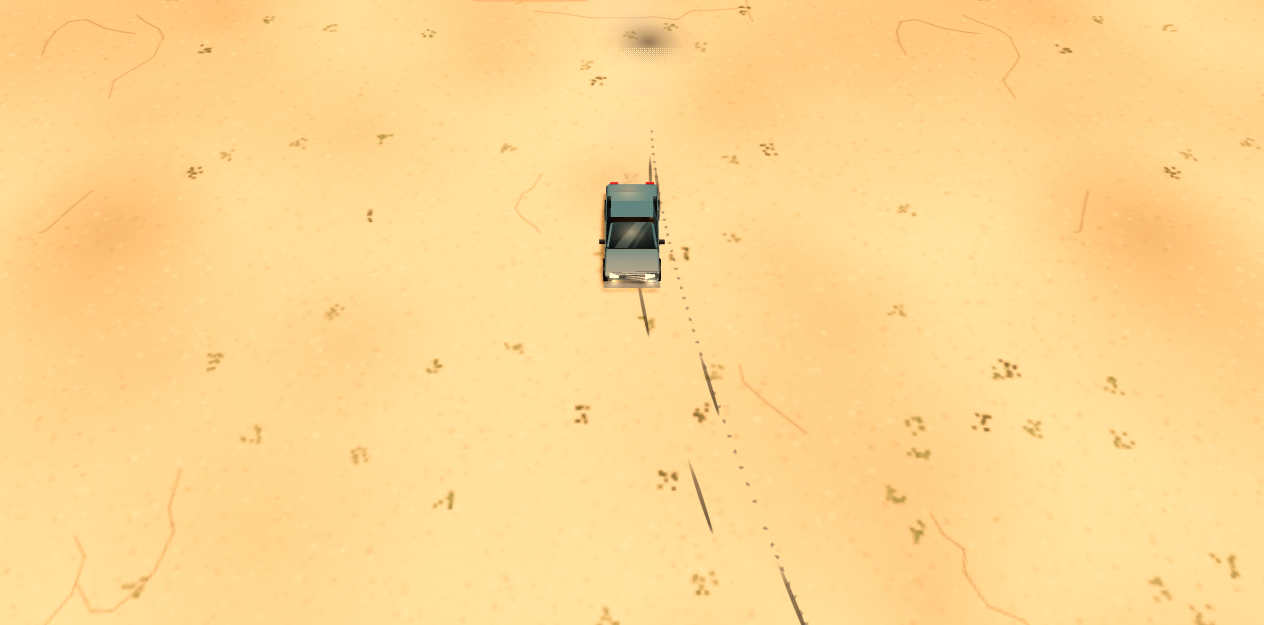
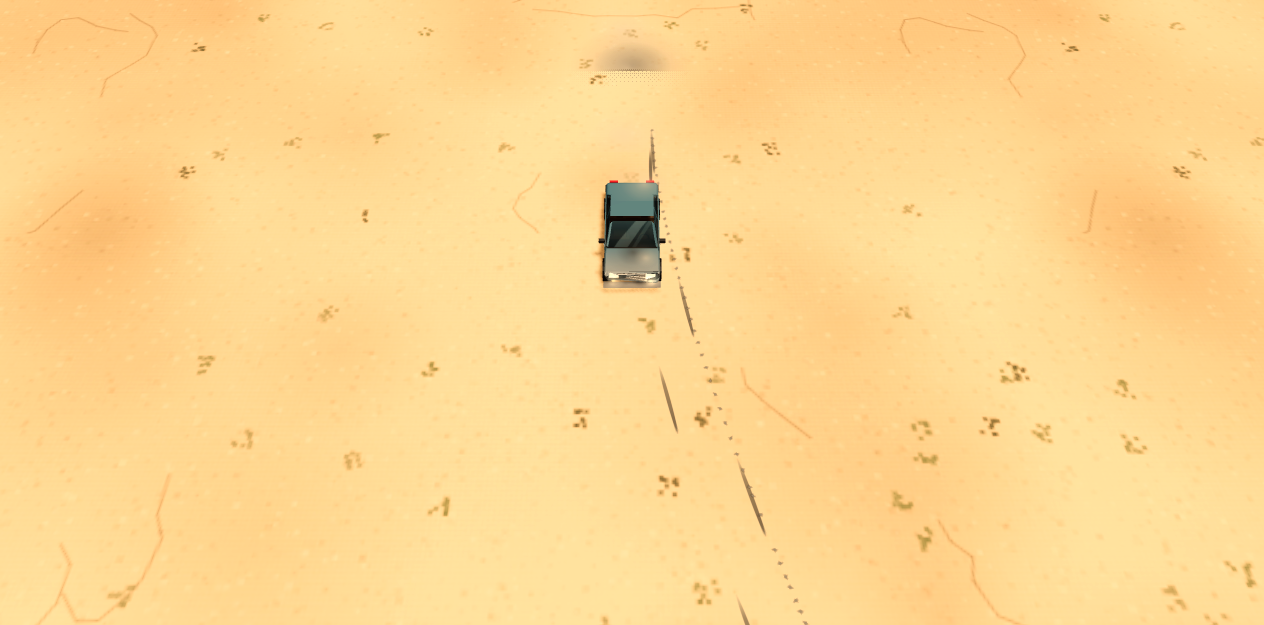
fix(web-veh-damage-feel): critic pass - upkeep multiplies the brakes (beaten brakes felt in the full game), the fix takes only E (F/C/G open the car beside a flat), the damage record rides the save, workshop tyres/body reset rims/front/brakes, one blowout bang, a friend's car shows its driver's stat

diff --git a/web/src/systems/damagefeel.js b/web/src/systems/damagefeel.js
@@ -23,6 +23,8 @@ for (const [k, F] of Object.entries(FIXES)) ACTIONS[`car_${k}`] ??= { label: F.l
 const TYRES = ['FL', 'FR', 'RL', 'RR'], BIKE_TYRES = ['FL', 'RL'];
 const LOOPS = ['flap', 'scrape', 'drag', 'steam'], LOOP_KIND = { flap: 'tyre.flap', scrape: 'rim.scrape', drag: 'bumper.drag', steam: 'steam.hiss' };
 const ENDS = [['F', 'front', 'bumperF', 0.5], ['R', 'rear', 'bumperR', -0.5]], WORK_ENDS = [['front', 'front', 'bumperF'], ['rear', 'rear', 'bumperR']];
+const NEED = {}; for (const id of ['spare_tyre', 'car_jack', 'tyre_plug', 'brake_pads', 'wrench']) NEED[id] = `no ${(ITEMS[id] ?? FEEL_ITEMS[id])?.name.toLowerCase() ?? id}`; // the missing-part words, made once
+const SPOT = { x: 0, z: 0 }; // spot()'s scratch (jobAt reads it before the next call)
 const VERB = { tyre: 'Change the tyre', plug: 'Plug the tyre', align: 'Straighten the front', bumper: 'Pull the hanging bumper', brakes: 'Fit the brake pads' };
 const clamp = (x, a, b) => (x < a ? a : x > b ? b : x);
 const r2 = (x) => Math.round(x * 100) / 100;
@@ -39,7 +41,7 @@ export class DamageFeel {
   // Which vehicles have air in their tyres to lose.
   tyred(v) { return !v.boat && !v.tracked && !v.trailer; }
   // The extra damage state, on the car's own dmg record.
-  ensure(d) { d.rim ??= { FL: 1, FR: 1, RL: 1, RR: 1 }; d.align ??= 0; d.brakes ??= 1; d.drag ??= { F: 0, R: 0 }; d.phase ??= 0; return d; }
+  ensure(d) { d.rim ??= { FL: 1, FR: 1, RL: 1, RR: 1 }; d.align ??= 0; d.brakes ??= 1; d.drag ??= { F: 0, R: 0 }; d.phase ??= 0; d.trail ??= { FL: 0, FR: 0, RL: 0, RR: 0 }; d.netDrag ??= { F: false, R: false }; return d; }
 
   // ---- a hit (vehicledamage.hit): what a crash bends beyond the dent ------------------------------------------------
   onHit(v, zone, k, kind, lx) {
@@ -51,13 +53,13 @@ export class DamageFeel {
     }
   }
   // A tyre gone (vehicledamage.popTyre): the bang you hear.
-  onBlowout(v) { this.counts.blowouts++; if (this.near(v)) this.g.audio?.sample?.('vehdmg', 'tyre.blowout', { x: v.x, z: v.z, range: 60 }); }
+  onBlowout(v) { this.counts.blowouts++; return this.near(v) && !!this.g.audio?.sample?.('vehdmg', 'tyre.blowout', { x: v.x, z: v.z, range: 60 }); } // true: the recorded bang played (no synth one on top)
   onMisfire(v) { this.counts.misfires++; return !!this.g.audio?.sample?.('vehdmg', 'engine.misfire', { x: v.x, z: v.z, range: 45 }); }
   near(v) { const p = this.g.player; return Math.hypot(v.x - p.x, v.z - p.z) < 80; }
 
   // ---- every frame (vehicledamage.effects): the feel ------------------------------------------------------------------
   apply(v, dt, fx) {
-    const g = this.g, d = this.ensure(v.dmg);
+    const g = this.g, d = this.ensure(v.dmg), ghost = !!v.netGhost; // a friend's car: its state is their page's (decode); here it is only shown
     // Its speed from its own motion (a friend's car on this page is moved, not driven: the same answer for both).
     const mv = Math.hypot(v.x - (v.fpx ?? v.x), v.z - (v.fpz ?? v.z)) / Math.max(dt, 1e-3); v.fpx = v.x; v.fpz = v.z;
     const sp = v.fsp = (v.fsp ?? 0) * 0.8 + Math.min(mv, 60) * 0.2, spK = clamp(sp / 12, 0, 1.5);
@@ -78,13 +80,13 @@ export class DamageFeel {
         else yaw += Math.sin(d.phase * 0.9 + 1.7) * F.tail * k * spK * (v.bike ? 1.6 : 1);                              // the tail walks
         roll += (v.bike ? 0 : side * FLAT.sag) + Math.sin(d.phase + (front ? 0 : 1.3)) * FLAT.shudder * spK;            // sags onto it, shudders with it
         // Driven on, the rim wears (faster on the throttle); with nothing left the wheel is gone.
-        if (sp > 0.5 && R > 0) {
+        if (sp > 0.5 && R > 0 && !ghost) {
           d.rim[t] = Math.max(0, R - sp * dt / RIM.life * (1 + Math.max(0, v.throttle ?? 0) * 0.6) * k);
           if (d.rim[t] <= 0) { this.counts.rimsGone++; d.dirty = true; g.emit?.('rimGone', { vehicle: v.id, tyre: t }); }
         }
         if (sp > 1 && Math.random() < dt * (gone ? RIM.sparks[1] : RIM.sparks[0] * spK)) this.spark(v, front ? 0.42 : -0.42, side);
         // What it leaves on the road: torn rubber smeared behind a flat, a scored groove behind a bare rim.
-        if (sp > 1.5) { const k2 = `trail${t}`; d[k2] = (d[k2] ?? 0) - sp * dt; if (d[k2] <= 0) { d[k2] = gone ? 0.35 : 0.6; this.mark(v, front ? 0.32 : -0.32, side, gone); } }
+        if (sp > 1.5) { d.trail[t] -= sp * dt; if (d.trail[t] <= 0) { d.trail[t] = gone ? 0.35 : 0.6; this.mark(v, front ? 0.32 : -0.32, side, gone); } }
         if (gone || R < RIM.scrapeAt || sp > FLAT.flapBelow) scrape = true; else flap = true;
       }
       if (nFlat >= 4) fx.top = Math.min(fx.top, FLAT.allFour);
@@ -98,26 +100,34 @@ export class DamageFeel {
     if (b <= BRAKES.fadeAt && b > BRAKES.failAt) { d.fadeT = (d.fadeT ?? 0) - dt; if (d.fadeT <= 0) { d.fadeT = 0.6 + Math.random() * 0.8; d.fadeK = BRAKES.fade[0] + Math.random() * (BRAKES.fade[1] - BRAKES.fade[0]); } bm = d.fadeK ?? BRAKES.fade[0]; }
     fx.brake = (fx.brake ?? 1) * bm;
     const braking = (v.throttle ?? 0) < 0 && sp > 2;
+    v.feelBrake = bm; // what the pedal gives this frame (the checks read the fade)
     if (braking && b < BRAKES.grindBelow && this.inside(v)) { d.grindT = (d.grindT ?? 0) - dt; if (d.grindT <= 0) { d.grindT = 1.1; this.counts.grinds++; g.audio?.sample?.('vehdmg', 'brake.grind', { dist: 1.5, vol: 0.8 }); } }
     // Heat: past the seize point the engine locks up and gives nothing until it has cooled right down.
-    if (!v.noEngine) {
+    if (!v.noEngine && !ghost) {
       if (!d.seized && d.temp > HEAT.seize) { d.seized = true; this.counts.seized++; g.emit?.('engineSeized', { vehicle: v.id }); }
       if (d.seized) { fx.power = 0; d.temp = Math.max(0, d.temp - (HEAT.cool + (v.throttle > 0 ? 0.02 + (1 - d.radiator) * 0.09 : 0)) * dt); /* locked up: no heat made, throttle or not */ if (d.temp < HEAT.restart) { d.seized = false; g.emit?.('engineFreed', { vehicle: v.id }); } }
       // A wrecked engine smokes all the time, black near the end.
       if (d.engine < SMOKE.below && d.engine > 0) { d.smokeT = (d.smokeT ?? 0) - dt; if (d.smokeT <= 0) { d.smokeT = SMOKE.every; g.fx?.smoke?.(v.x + Math.sin(v.h) * v.len * 0.38, 1.3, v.z + Math.cos(v.h) * v.len * 0.38, d.engine < 0.15); } }
     }
+    if (ghost && d.engine < SMOKE.below) { d.smokeT = (d.smokeT ?? 0) - dt; if (d.smokeT <= 0) { d.smokeT = SMOKE.every; g.fx?.smoke?.(v.x + Math.sin(v.h) * v.len * 0.38, 1.3, v.z + Math.cos(v.h) * v.len * 0.38, d.engine < 0.15); } }
     // Boiling or seized: a white plume off the hood you can read from anywhere (vehicledamage adds its own wisps).
     if (!v.noEngine && (d.temp > 1 || d.seized)) { d.steamT = (d.steamT ?? 0) - dt; if (d.steamT <= 0) { d.steamT = 0.1; g.fx?.spawn?.(2, v.x + Math.sin(v.h) * v.len * 0.4, 1.5, v.z + Math.cos(v.h) * v.len * 0.4, (Math.random() - 0.5) * 1.2, 1.3, (Math.random() - 0.5) * 1.2, 2.4, 1.7, '#8c9498', -0.5); } }
     // A caved-in end with its bumper still on: it hangs and drags until it tears off.
     let dragging = false;
-    for (const [end, zone, part, lz] of ENDS) {
-      const hang = !v.boat && d.zones[zone] >= DRAG.from && !d.off[part];
+    for (let i = 0; i < ENDS.length; i++) {
+      const E = ENDS[i], end = E[0], zone = E[1], part = E[2], lz = E[3];
+      const hang = !v.boat && (ghost ? d.netDrag[end] : d.zones[zone] >= DRAG.from && !d.off[part]);
       if (!hang) { d.drag[end] = 0; continue; }
       d.drag[end] += sp * dt; fx.top *= DRAG.top; dragging = dragging || sp > 1.5;
       if (sp > 1.5 && Math.random() < dt * DRAG.sparks) this.spark(v, lz, 0);
-      if (d.drag[end] > DRAG.tearAfter) { g.vehDamage.detach(v, part, zone, 4); this.counts.bumpersTorn++; d.drag[end] = 0; }
+      if (!ghost && d.drag[end] > DRAG.tearAfter) { g.vehDamage.detach(v, part, zone, 4); this.counts.bumpersTorn++; d.drag[end] = 0; }
     }
     fx.yaw = yaw; v.dmgRoll = roll;
+    // Someone else's car going by hurt: you hear it too (a take now and then, from where it is).
+    if (!this.inside(v) && sp > 2 && (nFlat || dragging)) {
+      d.outT = (d.outT ?? 0) - dt;
+      if (d.outT <= 0) { d.outT = 1.7; const p = g.player; if (Math.hypot(v.x - p.x, v.z - p.z) < 40) g.audio?.sample?.('vehdmg', dragging ? 'bumper.drag' : scrape ? 'rim.scrape' : 'tyre.flap', { x: v.x, z: v.z, range: 40, vol: 0.6 }); }
+    }
     // The car you are in: its loops.
     if (this.inside(v)) {
       const L = this.loops;
@@ -162,10 +172,10 @@ export class DamageFeel {
 
   // ---- the fixes, on foot at the car -----------------------------------------------------------------------------------
   // The spot to kneel at for each job: a wheel (by tyre), the front, an end with a hanging bumper.
-  spot(v, at, t = null) {
+  spot(v, at, t = null, out = SPOT) {
     const c = Math.cos(v.h), s = Math.sin(v.h);
     const lx = at === 'wheel' ? (t[1] === 'L' ? 1 : -1) * (v.wid / 2 + 0.3) : 0, lz = at === 'wheel' ? (t[0] === 'F' ? 1 : -1) * v.len * 0.32 : (at === 'rear' ? -1 : 1) * (v.len / 2 + 0.5);
-    return { x: v.x + lx * c + lz * s, z: v.z - lx * s + lz * c };
+    out.x = v.x + lx * c + lz * s; out.z = v.z - lx * s + lz * c; return out;
   }
   // A part on you or in that car's trunk (a spare lives in the trunk: it does not fit a pocket).
   has(id, v = null) { const I = this.g.inventory; if (!id) return true; return (I?.carried?.count(id) ?? 0) > 0 || (id === 'wrench' && !!I?.hasTag?.('wrench')) || (!!v && (I?.trunk?.(v)?.count(id) ?? 0) > 0); }
@@ -182,31 +192,41 @@ export class DamageFeel {
     return Object.assign(J, o);
   }
   jobAt(v, p) {
-    const d = v.dmg; if (!d || v.dead) return null;
+    const d = v.dmg; if (!d || v.dead || v.netGhost) return null; // a friend's car is theirs to fix
     this.ensure(d);
+    const g = this.g;
+    if (this.jobV === v && g.time - (this.jobT ?? -9) < 0.2 && Math.abs(p.x - this.jobX) + Math.abs(p.z - this.jobZ) < 0.25) return this.jobLast; // asked a few times a second while you stand still
+    this.jobV = v; this.jobT = g.time; this.jobX = p.x; this.jobZ = p.z; this.jobLast = this.findJob(v, p, d);
+    return this.jobLast;
+  }
+  findJob(v, p, d) {
     const near = (q) => Math.hypot(q.x - p.x, q.z - p.z) < 1.7;
     if (this.tyred(v)) for (const t of this.tyresOf(v)) {
       if (d.tyres[t] > 0) continue;
       const q = this.spot(v, 'wheel', t); if (!near(q)) continue;
       const plug = d.rim[t] >= FIXES.plug.rimMin && this.has('tyre_plug', v) && !(this.has('spare_tyre', v) && this.has('car_jack', v));
       const job = plug ? 'plug' : 'tyre', F = FIXES[job];
-      const why = !this.has(F.item, v) ? `no ${ITEMS[F.item].name.toLowerCase()}` : !this.has(F.tool, v) ? `no ${ITEMS[F.tool].name.toLowerCase()}` : null;
+      const why = !this.has(F.item, v) ? NEED[F.item] : !this.has(F.tool, v) ? NEED[F.tool] : null;
       return this.job(v, { job, t, x: q.x, z: q.z, why });
     }
     for (const [end, zone, part] of WORK_ENDS) {
       const q = this.spot(v, end); if (!near(q)) continue;
-      if (d.zones[zone] >= DRAG.from && !d.off[part]) return this.job(v, { job: 'bumper', end, part, zone, x: q.x, z: q.z, why: !this.has('wrench') ? 'no wrench' : null });
-      if (end === 'front' && Math.abs(d.align) > ALIGN.min) return this.job(v, { job: 'align', x: q.x, z: q.z, why: !this.has('wrench') ? 'no wrench' : null });
-      if (end === 'front' && d.brakes < 0.7) return this.job(v, { job: 'brakes', x: q.x, z: q.z, why: !this.has('brake_pads', v) ? 'no brake pads' : !this.has('wrench') ? 'no wrench' : null });
+      if (d.zones[zone] >= DRAG.from && !d.off[part]) return this.job(v, { job: 'bumper', end, part, zone, x: q.x, z: q.z, why: !this.has('wrench') ? NEED.wrench : null });
+      if (end === 'front' && Math.abs(d.align) > ALIGN.min) return this.job(v, { job: 'align', x: q.x, z: q.z, why: !this.has('wrench') ? NEED.wrench : null });
+      if (end === 'front' && d.brakes < 0.7) return this.job(v, { job: 'brakes', x: q.x, z: q.z, why: !this.has('brake_pads', v) ? NEED.brake_pads : !this.has('wrench') ? NEED.wrench : null });
     }
     return null;
   }
   // main.js E chain, on foot beside a car: true when it took the key (a job here).
+  // Only E is the job's: without it held (or the job running) it only leaves a hint for the car's own prompt (main.js
+  // shows F / C / G with it), so the driver's door still opens beside a flat front wheel.
   fixKey(p, v, I, dt) {
-    const g = this.g, A = g.actions; if (!A || p.inVehicle) return false;
+    const g = this.g, A = g.actions; this.hint = '';
+    if (!A || p.inVehicle) return false;
     const J = this.jobAt(v, p); if (!J) return false;
-    const F = FIXES[J.job], key = `fix:${J.key}`;
-    if (J.why) { g.hud.prompt(`${VERB[J.job]} · <b class="warn">${J.why}</b>`); return true; }
+    const F = FIXES[J.job], key = `fix:${J.key}`, busy = A.cur?.target === J;
+    this.hint = J.why ? ` · ${VERB[J.job]}: <b class="warn">${J.why}</b>` : ` · hold <kbd>E</kbd> ${VERB[J.job]}`;
+    if (J.why || (!I.key('KeyE') && !busy)) return false;
     A.touch?.();
     const k = A.press(J, I, dt);
     if (k === 'hold') {
@@ -224,6 +244,7 @@ export class DamageFeel {
     const g = this.g, d = this.ensure(v.dmg), F = FIXES[J.job], inv = g.inventory;
     if ((F.item && !this.has(F.item, v)) || (F.tool && !this.has(F.tool, v))) { g.hud.toast(`${F.label.toUpperCase()} · THE PARTS ARE GONE`, 'warn'); return; }
     if (F.item) this.spend(F.item, v);
+    if (F.tool) g.actions?.wear?.(F.tool, 0.05); // the jack, the wrench: they wear with use
     if (J.job === 'tyre') { d.tyres[J.t] = 1; d.rim[J.t] = 1; }        // a spare on its own rim
     else if (J.job === 'plug') d.tyres[J.t] = FIXES.plug.gives;
     else if (J.job === 'align') d.align = 0;
@@ -237,7 +258,7 @@ export class DamageFeel {
   coolant(v) {
     const d = v?.dmg; if (!d || v.noEngine) return { ok: false, why: v ? 'it has no engine to cool' : 'no vehicle close enough' };
     if (d.temp < 0.3 && d.radiator > 0.95) return { ok: false, why: 'it is running cool already' };
-    d.temp = Math.max(0, Math.min(d.temp - COOLANT.drop, HEAT.restart - 0.05)); d.radiator = Math.min(1, d.radiator + COOLANT.radiator); // cooled under the restart line
+    d.temp = Math.max(0, Math.min(d.temp - COOLANT.drop, HEAT.restart - 0.05)); d.radiator = Math.max(d.radiator, Math.min(COOLANT.leakCap, d.radiator + COOLANT.radiator)); // cooled under the restart line; the stop-leak slows a hole, it does not mend it
     if (d.seized) { d.seized = false; this.g.emit('engineFreed', { vehicle: v.id }); }
     return { ok: true, text: 'COOLANT IN' };
   }
@@ -248,7 +269,7 @@ export class DamageFeel {
     this.ensure(d); const s = this.st;
     for (const t of TYRES) { s.flat[t] = d.tyres[t] <= 0; s.rimGone[t] = d.tyres[t] <= 0 && d.rim[t] <= 0; }
     s.smoke = !v.noEngine && d.engine < SMOKE.below; s.steam = d.temp > 1 || !!d.seized; s.leak = d.tank < 0.65;
-    s.dragF = d.zones.front >= DRAG.from && !d.off.bumperF; s.dragR = d.zones.rear >= DRAG.from && !d.off.bumperR;
+    s.dragF = v.netGhost ? d.netDrag.F : d.zones.front >= DRAG.from && !d.off.bumperF; s.dragR = v.netGhost ? d.netDrag.R : d.zones.rear >= DRAG.from && !d.off.bumperR;
     s.seized = !!d.seized; s.pullL = d.align > ALIGN.min; s.pullR = d.align < -ALIGN.min; s.brakes = d.brakes < BRAKES.fadeAt;
     return encodeDm(s);
   }
@@ -260,7 +281,7 @@ export class DamageFeel {
     d.engine = s.smoke ? Math.min(d.engine, 0.25) : Math.max(d.engine, 0.5);
     d.temp = s.steam ? Math.max(d.temp, 1.05) : Math.min(d.temp, 0.6); d.seized = s.seized;
     d.tank = s.leak ? Math.min(d.tank, 0.5) : Math.max(d.tank, 0.7);
-    d.zones.front = s.dragF ? Math.max(d.zones.front, DRAG.from) : d.zones.front; d.zones.rear = s.dragR ? Math.max(d.zones.rear, DRAG.from) : d.zones.rear;
+    d.netDrag.F = s.dragF; d.netDrag.R = s.dragR; // a hanging bumper as their page has it (the dents stay what this page saw)
     d.align = s.pullL ? 0.4 : s.pullR ? -0.4 : 0; d.brakes = s.brakes ? 0.3 : 1;
     d.dirty = true;
   }

diff --git a/web/src/agent/veh-dmgfeel-api.js b/web/src/agent/veh-dmgfeel-api.js
@@ -18,8 +18,8 @@ export async function vehDmgFeelChecks(api, check, C) {
   const g = api.g, I = g.input, F = () => g.dmgFeel, made = [];
   const yard = { x: 250, z: 400 }, LOT = { x: 120, z: -20 }; // the yard: open ground to drive; the lot by Rust Haven: quiet, to kneel and work
   let quiet = null; // the world held still while you kneel (no new raiders or infected; the ones near are put away)
-  const hush = () => { if (quiet) return; quiet = { z: g.zombies.enabled, rt: g.raiderTimer, w: g.wilds.enabled }; g.zombies.enabled = false; g.raiderTimer = 1e9; g.wilds.enabled = false; for (const c of g.chars) if (c.alive && c !== g.player && (c.faction === 'raider' || c.faction === 'zombie' || c.target === g.player) && Math.hypot(c.x - LOT.x, c.z - LOT.z) < 160) { if (c.faction === 'raider' || c.faction === 'zombie') { c.alive = false; c.hp = 0; } else { c.target = null; c.state = 'idle'; c.grudge = null; } } };
-  const unhush = () => { if (!quiet) return; g.zombies.enabled = quiet.z; g.raiderTimer = quiet.rt; g.wilds.enabled = quiet.w; quiet = null; };
+  const hush = () => { if (quiet) return; quiet = { z: g.zombies.enabled, rt: g.raiderTimer, w: g.wilds.enabled, th: g.actions.threatInSight }; g.actions.threatInSight = () => false; /* staged: no hostile walks in and cancels the job (not what these checks test) */ g.zombies.enabled = false; g.raiderTimer = 1e9; g.wilds.enabled = false; for (const c of g.chars) if (c.alive && c !== g.player && (c.faction === 'raider' || c.faction === 'zombie' || c.target === g.player) && Math.hypot(c.x - LOT.x, c.z - LOT.z) < 160) { if (c.faction === 'raider' || c.faction === 'zombie') { c.alive = false; c.hp = 0; } else { c.target = null; c.state = 'idle'; c.grudge = null; } } };
+  const unhush = () => { if (!quiet) return; delete g.actions.threatInSight; g.zombies.enabled = quiet.z; g.raiderTimer = quiet.rt; g.wilds.enabled = quiet.w; quiet = null; };
   const toLot = async (v) => { hush(); if (g.player.inVehicle) g.exitVehicle(true); Object.assign(v, { x: LOT.x, z: LOT.z, h: 0, vx: 0, vz: 0, av: 0 }); await C('teleport', { x: LOT.x - 4, z: LOT.z }); await api._step(4); }; // staged: towed to the lot
   const keys = ['KeyW', 'KeyS', 'KeyA', 'KeyD', 'KeyE', 'Space'];
   const off = () => { unhush(); for (const k of keys) I.down.delete(k); if (g.player.inVehicle) g.exitVehicle(true); for (const v of made.splice(0)) if (g.vehicles.includes(v)) g.vehiclesSys.remove(v); };
@@ -62,7 +62,6 @@ export async function vehDmgFeelChecks(api, check, C) {
       const flatRun = { side: v.x - (yard.x), top: ftop };
       const pos = g.vehiclesSys.speed(v);
       if (g.hud?.root) g.hud.root.style.display = hud0 ?? '';
-      const squat = (() => { const pa = v.mesh.geometry.attributes.part, P = v.mesh.geometry.attributes.position; let lo = 9, base = 9; for (let i = 0; i < pa.count; i++) if (pa.array[i] === 10) { lo = Math.min(lo, P.array[i * 3 + 1] + 0); base = Math.min(base, v.basePos[i * 3 + 1]); } return { lo, base }; })();
       const out = { good: { side: r1(good.side), top: r1(good.top) }, flat: { side: r1(flatRun.side), speed: r1(pos) }, roll: r2(v.dmgRoll ?? 0), flap, scrape };
       // re-drive the flat car for the numbers (top, roll, shudder) on the same keys
       const fr = await drive(v, 200); out.flat.top = r1(fr.top); out.flat.roll = r2(fr.roll); out.flat.shudder = r2(fr.shudder * 1000) / 1000;
@@ -118,13 +117,15 @@ export async function vehDmgFeelChecks(api, check, C) {
       const fixed = Math.abs(v.dmg.align) <= 0.01;
       if (!had) g.inventory.spend('wrench', 1);
       const out = { align: r2(align), brakes: r2(brakes), glass, side: r1(bent.side), fixed, log: g.actions.log.slice(-3), prompt: g.hud?.lastPrompt ?? null };
-      return Math.abs(align) > 0.12 && Math.sign(bent.side) === Math.sign(align) && Math.abs(bent.side) > 1 && brakes < 1 && (!glass0 || (glass !== null && glass < (v.windows?.front?.max ?? 999))) && fixed ? true : JSON.stringify(out);
+      return Math.abs(align) > 0.12 && Math.sign(bent.side) === Math.sign(align) && Math.abs(bent.side) > 1 && brakes < 1 && glass0 && glass !== null && glass < (v.windows?.front?.max ?? 0) && fixed ? true : JSON.stringify(out);
     } finally { off(); }
   });
 
+  let prof = null, up0;
   await check('car feel: beaten brakes stop long, then fade, and grind when they bite; hold E at the front with pads and a wrench and the pedal bites again', async () => {
     try {
-      const stop = async (stage) => { const v = await car(stage); await drive(v, 150); const z0 = v.z; I.down.add('KeyS'); let f = 0; for (; f < 600 && g.vehiclesSys.speed(v) > 0.6; f++) await api._step(1); I.down.delete('KeyS'); return { v, d: v.z - z0, f }; };
+      prof = g.survival?.prof; up0 = prof?.upkeep; if (prof) prof.upkeep = true; // the full game's upkeep on (it used to overwrite the brakes)
+      const stop = async (stage) => { const v = await car(stage); await drive(v, 150); const z0 = v.z; let lo = 9, hi = 0; I.down.add('KeyS'); let f = 0; for (; f < 600 && g.vehiclesSys.speed(v) > 0.6; f++) { await api._step(1); lo = Math.min(lo, v.feelBrake ?? 1); hi = Math.max(hi, v.feelBrake ?? 1); } I.down.delete('KeyS'); return { v, d: v.z - z0, f, fade: hi - lo }; };
       const good = await stop(); off();
       const g0 = F().counts.grinds;
       const bad = await stop((d) => { d.brakes = 0.25; });
@@ -136,9 +137,9 @@ export async function vehDmgFeelChecks(api, check, C) {
       I.down.add('KeyE'); for (let f = 0; f < 60 * (FIXES.brakes.secs + 2) && bad.v.dmg.brakes < 1; f++) await api._step(1); I.down.delete('KeyE');
       const fixed = bad.v.dmg.brakes === 1, spent = g.inventory.carried.count('brake_pads') === p0;
       if (!w0) g.inventory.spend('wrench', 1);
-      const out = { good: r1(good.d), bad: r1(bad.d), grinds, fixed, spent, log: g.actions.log.slice(-3) };
-      return bad.d > good.d * 1.6 && grinds > 0 && fixed && spent ? true : JSON.stringify(out);
-    } finally { off(); }
+      const out = { good: r1(good.d), bad: r1(bad.d), fade: r2(bad.fade), grinds, fixed, spent, log: g.actions.log.slice(-3) };
+      return bad.d > good.d * 1.6 && bad.fade > 0.02 && grinds > 0 && fixed && spent ? true : JSON.stringify(out);
+    } finally { if (prof) prof.upkeep = up0; off(); }
   });
 
   await check('car feel: a holed radiator boils (steam), then the engine seizes and the car rolls to a stop with W held; it frees once cool, and coolant brings it back at once', async () => {
@@ -198,12 +199,12 @@ export async function vehDmgFeelChecks(api, check, C) {
     } finally { off(); }
   });
 
-  await check('car feel: the damage rides the presence sample - a friend\'s car on this page shows the same flats, rim, smoke, steam and hanging bumper; boats have no tyres to lose, a bike only two', async () => {
+  await check('car feel: the damage word survives the shard\'s own cleaner and puts the same flats, rim, smoke, steam and hanging bumper on the other car; boats have no tyres to lose, a bike only two', async () => {
     try {
       const a = g.vehiclesSys.spawn('sedan', yard.x, yard.z, 0, '#777'), b = g.vehiclesSys.spawn('sedan', yard.x + 8, yard.z, 0, '#777'); made.push(a, b);
       Object.assign(a.dmg.tyres, { FL: 0, RR: 0 }); F().ensure(a.dmg); a.dmg.rim.RR = 0; a.dmg.engine = 0.2; a.dmg.temp = 1.1; a.dmg.zones.rear = 0.5; a.dmg.align = 0.4;
       const msg = cleanPresence({ x: a.x, z: a.z, v: { t: a.type, x: a.x, z: a.z, h: a.h, c: '#777777', seat: 0, dm: F().encode(a) } }); // through the shard's own cleaner
-      F().decode(b, msg.v.dm);
+      b.netGhost = { char: 'a friend' }; F().decode(b, msg.v.dm); // b stands in for their car on this page
       const s = decodeDm(msg.v.dm), same = F().encode(b) === F().encode(a);
       const boat = g.vehiclesSys.spawn('gunboat', yard.x + 30, yard.z + 30, 0, '#777'); made.push(boat);
       g.vehDamage.popTyre(boat, 'FL'); const boatKept = boat.dmg.tyres.FL === 1;
@@ -211,6 +212,31 @@ export async function vehDmgFeelChecks(api, check, C) {
       g.vehDamage.popTyre(bike, 'FR'); const bikeFront = bike.dmg.tyres.FL === 0 && bike.dmg.tyres.FR === 1;
       const out = { dm: msg.v.dm, same, flats: s.flat, rimRR: s.rimGone.RR, boatKept, bikeFront };
       return msg.v.dm > 0 && same && s.flat.FL && s.flat.RR && s.rimGone.RR && s.smoke && s.steam && s.dragR && s.pullL && boatKept && bikeFront ? true : JSON.stringify(out);
+    } finally { off(); }
+  });
+
+  await check('car feel: beside a flat front wheel F still opens the door (the fix only takes E), and the prompt says what holding E would do', async () => {
+    try {
+      const v = await car((d) => { d.tyres.FL = 0; }); await toLot(v);
+      await C('teleport', F().spot(v, 'wheel', 'FL')); await api._step(3);
+      const q0 = { ...F().spot(v, 'wheel', 'FL') }; const J0 = F().jobAt(v, g.player)?.job ?? null;
+      F().fixKey(g.player, v, I, 1 / 60); const hint = F().hint ?? ''; // E up: it only leaves its hint for the car's prompt
+      I.down.add('KeyF'); I.pressed.add('KeyF'); await api._step(1); I.down.delete('KeyF'); await api._step(4);
+      const inIt = g.player.inVehicle === v;
+      return inIt && /hold|spare|jack/i.test(hint) ? true : JSON.stringify({ inIt, hint, job: J0, at: [r1(g.player.x), r1(g.player.z)], spot: [r1(q0.x), r1(q0.z)], car: [r1(v.x), r1(v.z)] });
+    } finally { off(); }
+  });
+
+  await check('car feel: a save and a load keep a car\'s felt damage - its flats, a worn rim, the bent front, beaten brakes', async () => {
+    try {
+      const v = g.vehiclesSys.spawn('sedan', yard.x, yard.z, 0, '#777'); made.push(v); F().ensure(v.dmg);
+      Object.assign(v.dmg.tyres, { FL: 0 }); v.dmg.rim.FL = 0.3; v.dmg.align = -0.4; v.dmg.brakes = 0.2; v.dmg.zones.front = 0.5;
+      const snap = (await C('save')).save;
+      g.vehDamage.repair(v); // the page forgets
+      await C('load', { save: snap }); await api._step(2);
+      const w = g.vehicles.find((q) => q.id === v.id) ?? v, d = w.dmg;
+      const out = { FL: d.tyres.FL, rim: d.rim?.FL, align: d.align, brakes: d.brakes, front: d.zones.front };
+      return d.tyres.FL === 0 && Math.abs(d.rim.FL - 0.3) < 0.01 && Math.abs(d.align + 0.4) < 0.01 && Math.abs(d.brakes - 0.2) < 0.01 && Math.abs(d.zones.front - 0.5) < 0.01 ? true : JSON.stringify(out);
     } finally { off(); }
   });
 }

diff --git a/web/src/agent/api.js b/web/src/agent/api.js
@@ -6192,7 +6192,7 @@ export function snapshot(g) {
     // (c.pol, v.pol: a town desk's officers and motor pool are not saved: systems/police.js stands them up again with the town)
     chars: g.chars.filter((c) => c !== p && !c.res && !c.wild && !c.trundle && !c.husk && !c.ug && !c.roadside && !c.pullRec && !c.barRole && !c.storyMover && !c.storyGarrison && !c.storyCamp && !c.pol).map((c) => ({ id: c.id, x: c.x, z: c.z, hp: c.hp, alive: c.alive, face: c.face, faction: c.faction, weapon: c.weapon, name: c.name, flag: c.flag, npc: c.npc?.id ?? null, colors: c.colors, vehicle: c.inVehicle?.id ?? null, blood: c.blood, headless: c.headless, runner: c.runner || undefined, zSpeed: c.zSpeed, fid: c.fid ?? undefined, gy: c.gy > 0.5 ? c.gy : undefined })),
     vehicles: g.vehicles.filter((v) => !v.trundle && !v.storyCar && !v.pol).map((v) => ({ id: v.id, type: v.type, x: v.x, z: v.z, h: v.h, hp: v.hp, dead: v.dead, paint: v.paint, ai: v.ai,
-      plates: v.plates ? { ...v.plates } : undefined, mounts: v.mounts ? JSON.parse(JSON.stringify(v.mounts)) : undefined, build: g.garage.saveBuild(v) })), // build: plate kinds, gadgets, paint (systems/garage.js)
+      plates: v.plates ? { ...v.plates } : undefined, mounts: v.mounts ? JSON.parse(JSON.stringify(v.mounts)) : undefined, build: g.garage.saveBuild(v), dmg: g.vehDamage.save(v) })), // dmg: its parts, dents and felt damage (an old save: none) // build: plate kinds, gadgets, paint (systems/garage.js)
     society: g.society.save(), // additive: a save without it loads with fresh standings
     milbases: g.milbases?.save(), // the military bases: power, the code read, the blast doors, warnings, the garrison's dead, the horde's fallen
     under: g.under?.save(), // the underground: every site's power, fuel, lift, alert, codes, logs read; every level's people and doors (who is below is there, not in chars)
@@ -6245,6 +6245,7 @@ export function restore(g, s) {
     v.plates = sv.plates ? { ...sv.plates } : undefined; v.mounts = sv.mounts ? JSON.parse(JSON.stringify(sv.mounts)) : undefined;
     g.garage.loadBuild(v, sv.build); // an old save: plain boiler plate, no gadgets
     g.garage.retune(v);
+    if (sv.dmg) g.vehDamage.load(v, sv.dmg); // flats, rims, a bent front, beaten brakes as saved (an old save: as it stands)
     if (sv.dead && !v.dead) { v.dead = true; v.mesh.material = g.vehiclesSys.wreckMat; }
   }
   // The ring's residents first: their characters go, their records start again from the save (promoted again near you).

diff --git a/web/src/main.js b/web/src/main.js
@@ -1048,7 +1048,7 @@ class Game {
     // A dog at your feet (systems/dogs.js): E feeds it, bandages it, or tells yours to stay or follow. C whistles (taps and a
     // hold: heel, guard, seek, SIC, shield), unless a car in reach takes C for its passenger seat.
     // A roadside work spot (a tank's caps, a hulk, a water tank, the dam's wheel: systems/roadside.js) is E's before your dog at heel.
-    if (!best && bestV && !p.inVehicle && this.dmgFeel.fixKey(p, bestV, I, dt)) return; // at the car's flat wheel, bent front or hanging bumper: hold E fixes it (systems/damagefeel.js)
+    if (!best && bestV && !p.inVehicle && this.dmgFeel.fixKey(p, bestV, I, dt)) return; // E held at the car's flat wheel, bent front or hanging bumper: the fix (systems/damagefeel.js); F, C, G stay the car's
     const rsSpot = !best ? this.roadside.spotNear(p) : null;
     const dog = !best && !bestV && !rsSpot ? this.dogs.nearFor(p) : null;
     this.dogs.whistleKey(!bestV && I.key('KeyC'), dt);
@@ -1075,7 +1075,7 @@ class Game {
     const runner = best?.telling && this.witnesses.canBribe(best) ? best : null; // a witness running home: buy their silence
     if (runner) this.hud.prompt(`<kbd>E</kbd> Pay <b>$${this.witnesses.bribeCost(runner)}</b> to forget what they saw`);
     else if (best) this.hud.prompt(`<kbd>E</kbd> ${best.sleeping ? 'Wake' : 'Talk to'} ${best.npc ? best.npc.name : best.name}`);
-    else if (bestV) this.hud.prompt(`<kbd>F</kbd> ${bestV.driver && bestV.driver.faction !== 'ally' ? 'Carjack' : bestV.fallen ? 'Pick up' : 'Drive'} ${bestV.name} · <kbd>C</kbd> Ride${bestV.driver ? ' along' : ' as passenger'} · <kbd>G</kbd> Hang on${spot ? ` · ${spot.label}` : climb ? ` · <kbd>E</kbd> ${climb}` : ''}`);
+    else if (bestV) this.hud.prompt(`<kbd>F</kbd> ${bestV.driver && bestV.driver.faction !== 'ally' ? 'Carjack' : bestV.fallen ? 'Pick up' : 'Drive'} ${bestV.name} · <kbd>C</kbd> Ride${bestV.driver ? ' along' : ' as passenger'} · <kbd>G</kbd> Hang on${spot ? ` · ${spot.label}` : climb ? ` · <kbd>E</kbd> ${climb}` : ''}${this.dmgFeel.hint ?? ''}`); // hold E: what a job here would be (systems/damagefeel.js)
     else if (dog) this.hud.prompt(dog.verb === 'none' ? dog.text : `<kbd>E</kbd> ${dog.text}`);
     else if (dk) this.hud.prompt(dk.text);
     else if (game) this.hud.prompt(game.verb === 'none' || game.verb === 'busy' ? game.text : `<kbd>E</kbd> ${game.text}`);

diff --git a/web/src/systems/workshop.js b/web/src/systems/workshop.js
@@ -216,8 +216,8 @@ export class Workshop {
     const cost = q.price + q.labour;
     if (!this.pay(cost, pay)) return { ok: false, why: `not enough scrip: ${cost}` };
     if (face) { v.plates[face] = v.platesFull[face]; g.garage.retune(v); }
-    else if (part === 'tyres') { for (const t of Object.keys(v.dmg.tyres)) v.dmg.tyres[t] = 1; v.dmg.dirty = true; }
-    else if (part === 'body') { for (const z of Object.keys(v.dmg.zones)) v.dmg.zones[z] = 0; v.dmg.off = {}; v.hp = v.maxHp; v.dmg.dirty = true; v.dmg.deformT = 0; if (v.baseCol) v.mesh.geometry.attributes.color.array.set(v.baseCol); }
+    else if (part === 'tyres') { for (const t of Object.keys(v.dmg.tyres)) { v.dmg.tyres[t] = 1; if (v.dmg.rim) v.dmg.rim[t] = 1; } v.dmg.dirty = true; } // new tyres on true rims
+    else if (part === 'body') { if (v.dmg.rim) { v.dmg.align = 0; v.dmg.brakes = 1; v.dmg.drag.F = v.dmg.drag.R = 0; } for (const z of Object.keys(v.dmg.zones)) v.dmg.zones[z] = 0; /* the body shop trues the front and does the brakes too (systems/damagefeel.js) */ v.dmg.off = {}; v.hp = v.maxHp; v.dmg.dirty = true; v.dmg.deformT = 0; if (v.baseCol) v.mesh.geometry.attributes.color.array.set(v.baseCol); }
     else { v.dmg[part] = 1; if (part === 'radiator') v.dmg.temp = 0; }
     const hours = time ? this.passHours(q.hours) : 0;
     this.stats.repairs++;

diff --git a/web/src/systems/vehicledamage.js b/web/src/systems/vehicledamage.js
@@ -226,6 +226,22 @@ export class VehicleDamage {
     return out;
   }
 
+  // The save: the parts, the dents, the panels gone, the heat, and the felt damage (systems/damagefeel.js), rounded.
+  save(v) {
+    const d = v.dmg; if (!d) return undefined;
+    const r = (x) => Math.round(x * 1000) / 1000;
+    return { e: r(d.engine), ra: r(d.radiator), t: r(d.tank), l: r(d.lights), ty: { ...d.tyres }, z: { ...d.zones }, off: Object.keys(d.off), tp: r(d.temp),
+      rim: d.rim ? { ...d.rim } : undefined, al: r(d.align ?? 0), br: r(d.brakes ?? 1), sz: d.seized ? 1 : 0, dr: d.drag ? { ...d.drag } : undefined };
+  }
+  load(v, s) {
+    const d = v.dmg; if (!d || !s) return;
+    d.engine = s.e ?? 1; d.radiator = s.ra ?? 1; d.tank = s.t ?? 1; d.lights = s.l ?? 1; Object.assign(d.tyres, s.ty ?? {}); Object.assign(d.zones, s.z ?? {});
+    d.off = {}; for (const p of s.off ?? []) d.off[p] = true;
+    d.temp = s.tp ?? 0; this.g.dmgFeel?.ensure(d);
+    if (s.rim) Object.assign(d.rim, s.rim); d.align = s.al ?? 0; d.brakes = s.br ?? 1; d.seized = !!s.sz; if (s.dr && d.drag) Object.assign(d.drag, s.dr);
+    d.dirty = true; d.deformT = 0;
+  }
+
   repair(v) {
     if (!v.dmg) return;
     v.dmg.engine = v.dmg.radiator = v.dmg.tank = v.dmg.lights = 1;

diff --git a/web/src/data/damagefeel.js b/web/src/data/damagefeel.js
@@ -45,7 +45,7 @@ export const FIXES = {
   bumper: { label: 'Pulling the hanging bumper', item: null, tool: 'wrench', secs: 5, at: 'end' },
   brakes: { label: 'Fitting brake pads', item: 'brake_pads', tool: 'wrench', secs: 12, at: 'front' },
 };
-export const COOLANT = { drop: 0.85, radiator: 0.25 };           // a jug poured: the heat it takes off, the stop-leak it adds
+export const COOLANT = { drop: 0.85, radiator: 0.25, leakCap: 0.6 }; // a jug poured: the heat it takes off, the stop-leak it adds (never past leakCap: it slows a hole)
 
 // The parts, as items, and where the world has them (loot rows: [item, weight, min, max] into data/items.js LOOT tables).
 export const FEEL_ITEMS = {

diff --git a/web/src/systems/upkeep.js b/web/src/systems/upkeep.js
@@ -58,7 +58,7 @@ export class Upkeep {
       if (v.oil <= 0) { fx.power *= U.oil.dryPower; if (v.throttle > 0) d.engine = Math.max(0, d.engine - U.oil.dryEngine * dt * v.throttle); }
     }
     fx.grip *= 1 - W.tyres.grip * over(w.tyres, W.tyres.from);
-    fx.brake = 1 - W.brakes.brake * over(w.brakes, W.brakes.from);
+    fx.brake = (fx.brake ?? 1) * (1 - W.brakes.brake * over(w.brakes, W.brakes.from)); // on top of a beaten brake system (systems/damagefeel.js)
     const e = over(w.engine, W.engine.from);
     fx.power *= 1 - W.engine.power * e; fx.top *= 1 - W.engine.top * e;
     if (v.driver === g.player) this.warn(v);
